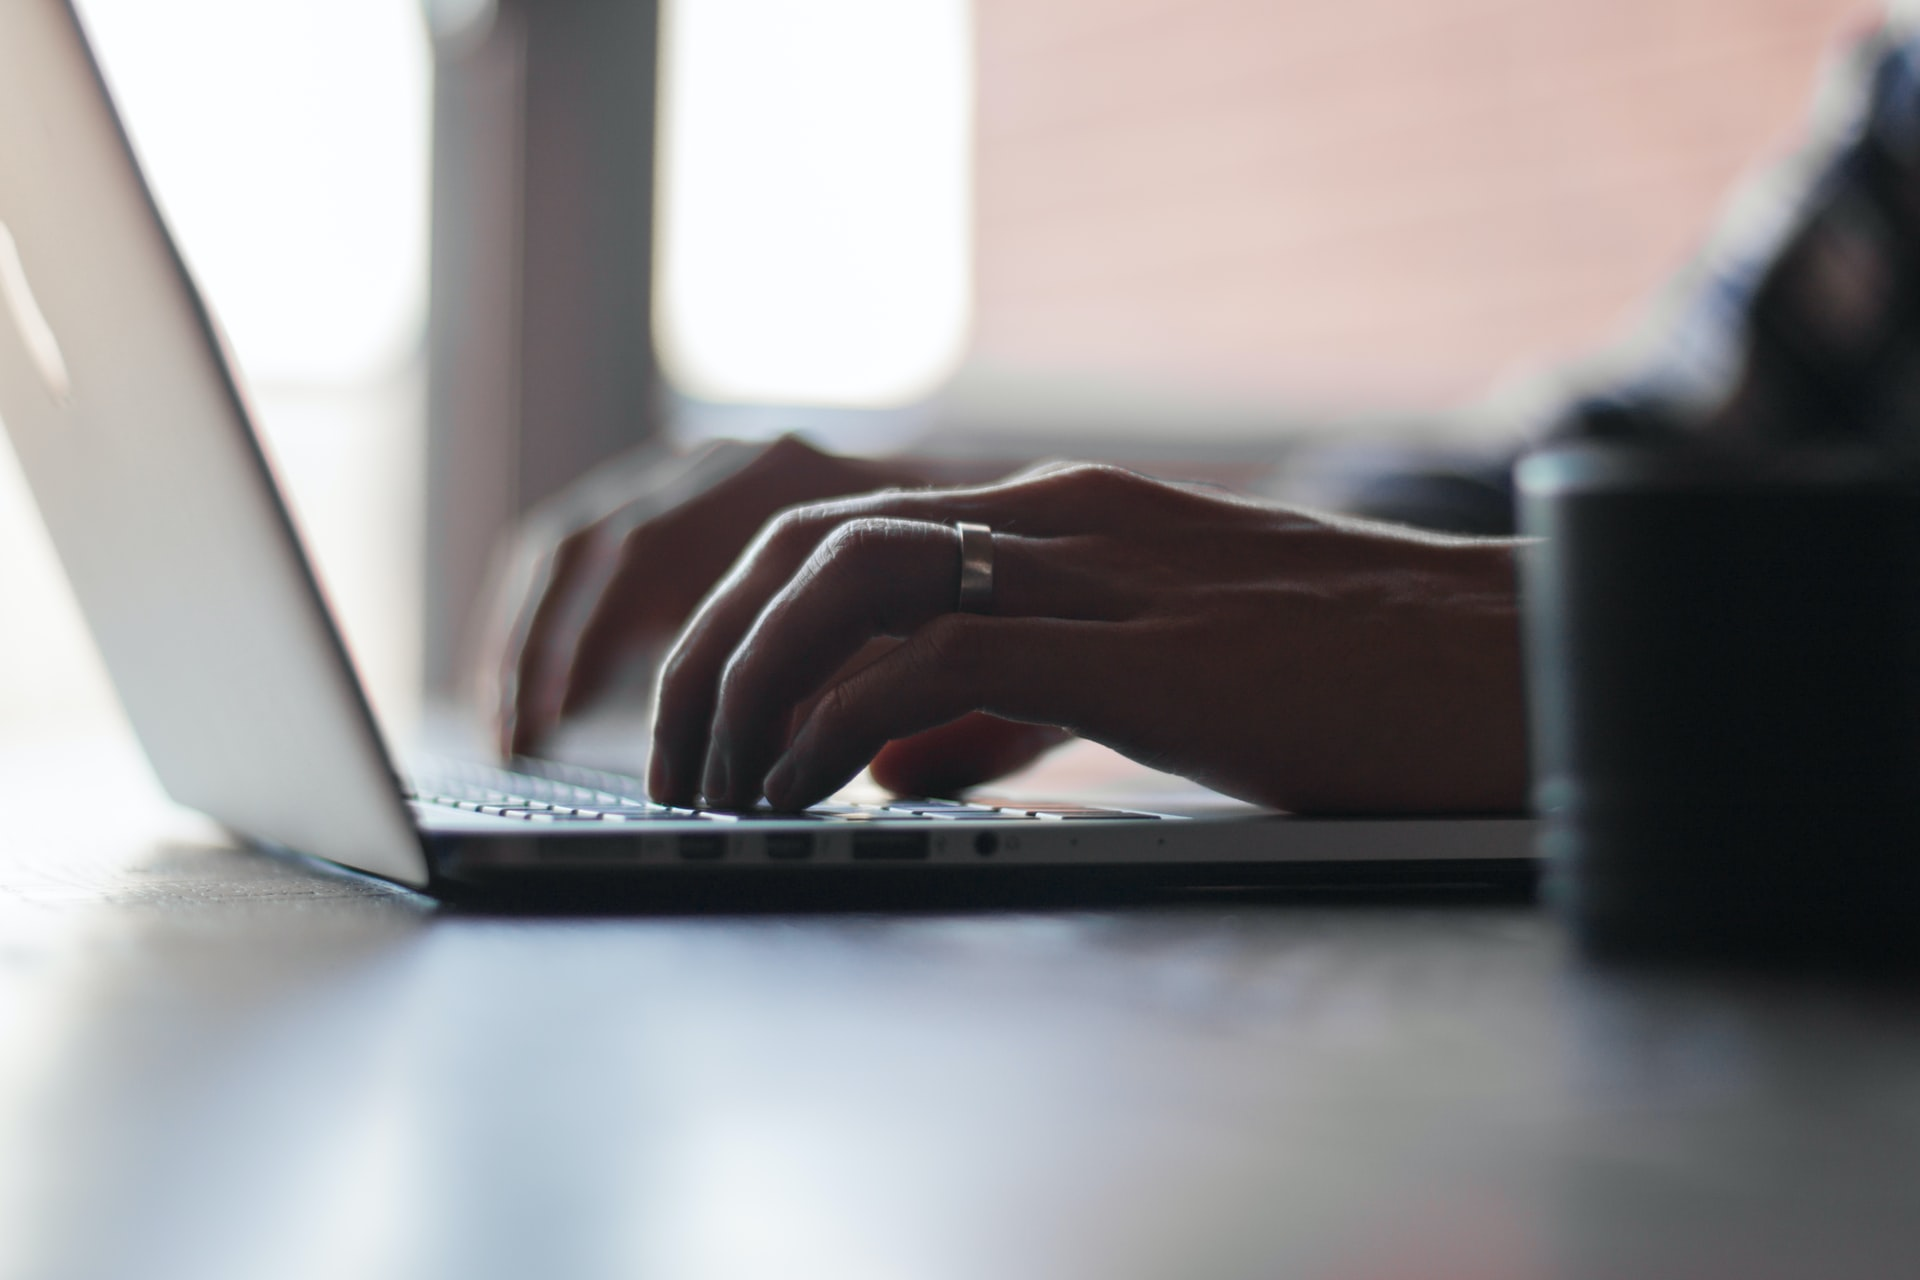
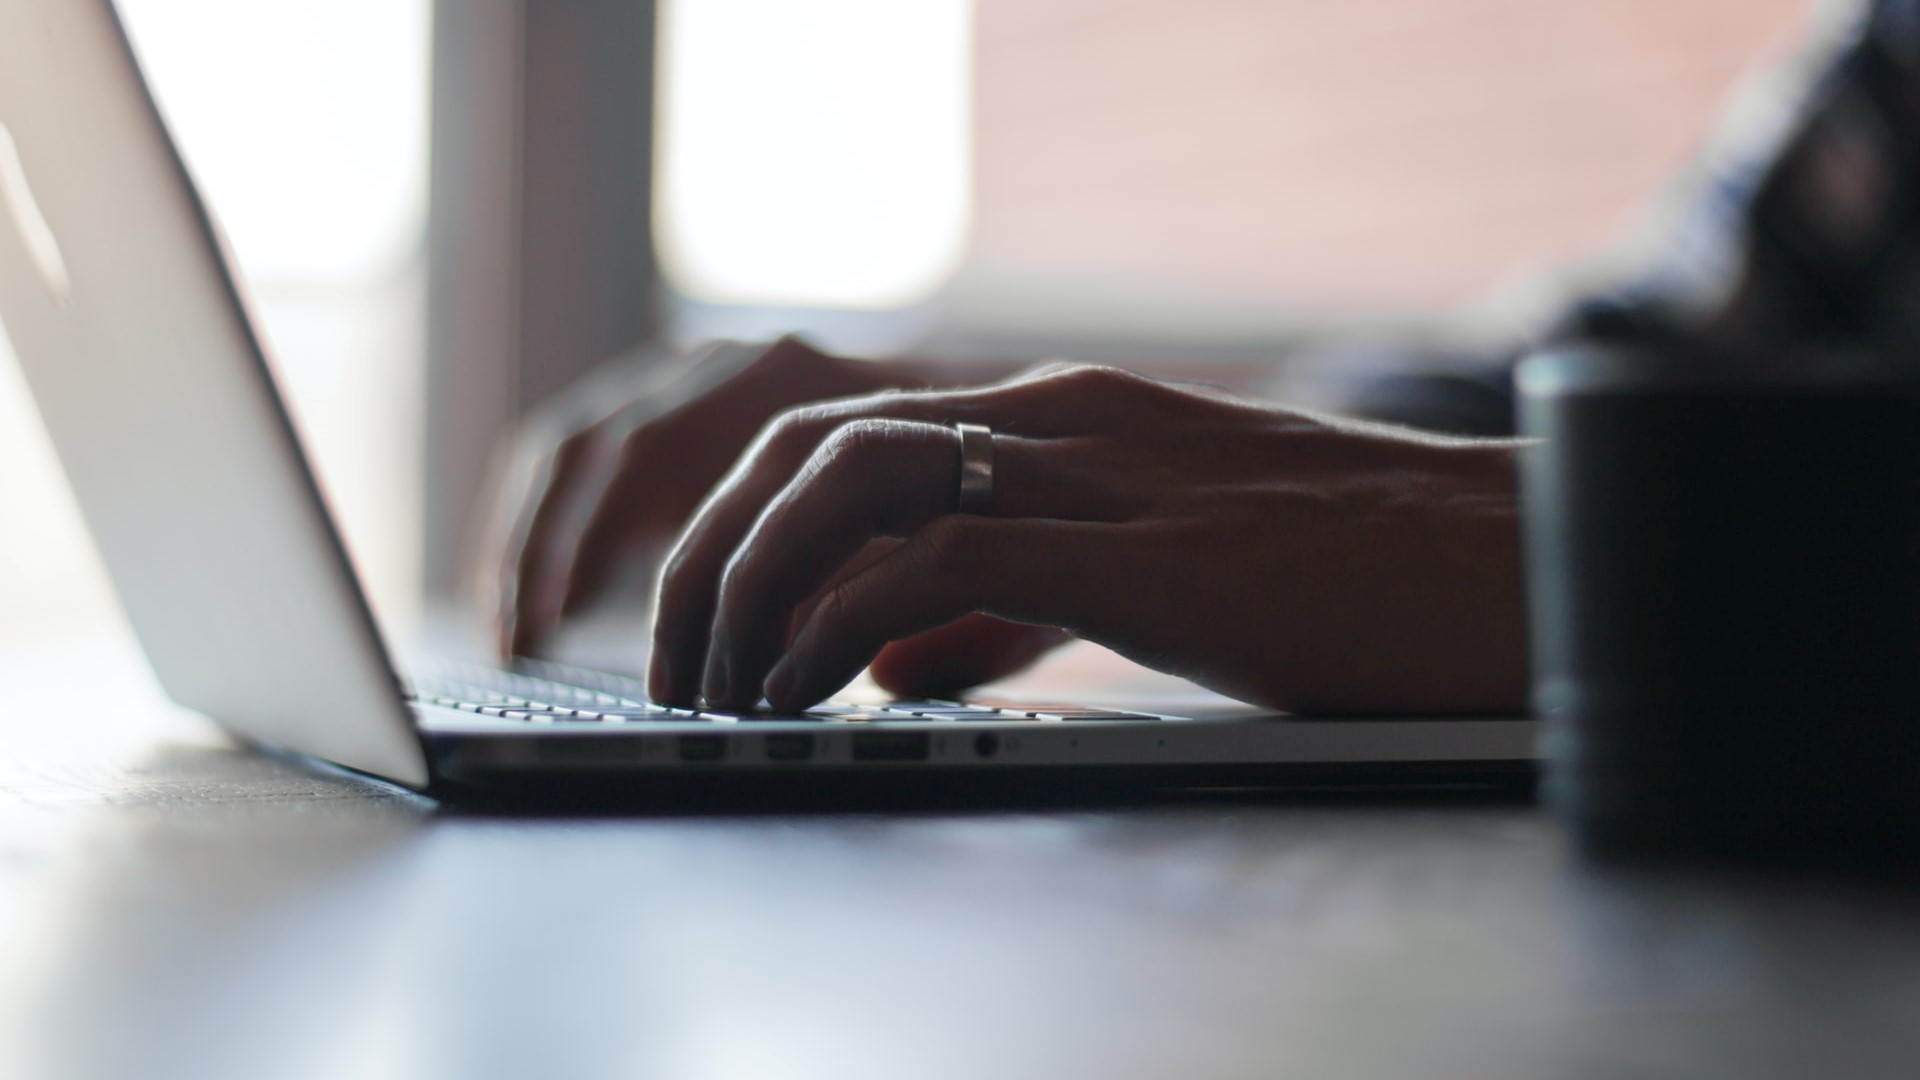
fix: update cropped image and add aspect ratio

diff --git a/src/pages/index.tsx b/src/pages/index.tsx
@@ -219,7 +219,7 @@ const IndexPage = () => {
             allow="accelerometer; autoplay; clipboard-write; encrypted-media; gyroscope; picture-in-picture"
           ></iframe>
         </div>
-        <div className="relative flex items-center justify-center h-1/2 lg:w-1/2 item-center lg:h-full">
+        <div className="relative flex items-center justify-center h-1/2 lg:w-1/2 item-center lg:h-full aspect-w-16 aspect-h-9 lg:pb-0">
           <StaticImage
             className="absolute top-0 left-0 z-0 flex items-center justify-center h-full"
             src="../images/register.jpg"
